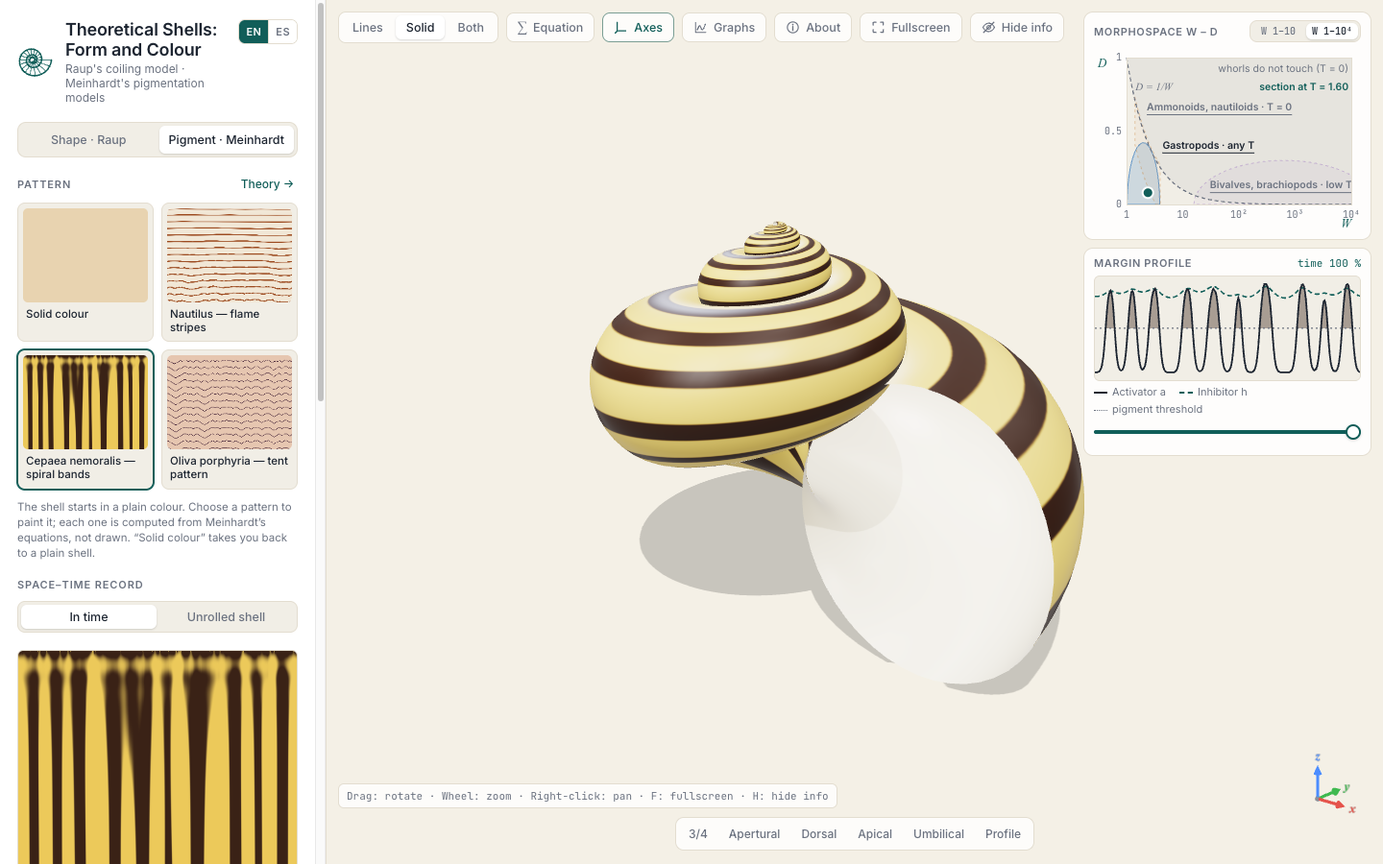
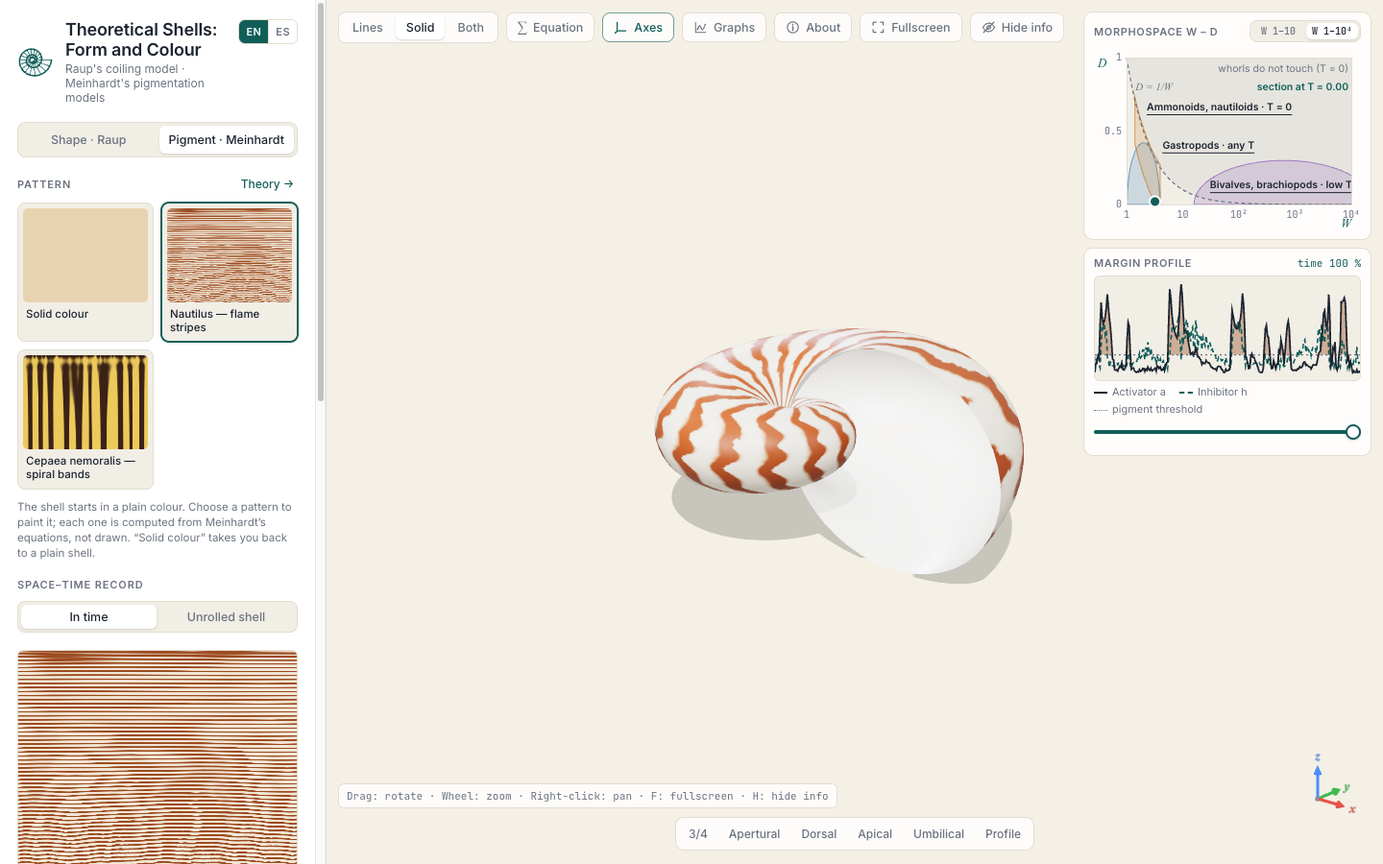
Nautilus con rayas en llama, sin preset de Oliva e imágenes nuevas del README

diff --git a/js/i18n.js b/js/i18n.js
@@ -207,7 +207,7 @@ export const STRINGS = {
     'pig.model': 'Model',
     'pig.model.AI': 'Activator–inhibitor',
     'pig.model.AS': 'Activator–substrate',
-    'pig.recipes': '<strong>How to change the type of pattern</strong><ul><li><b>Bands along the spiral</b>: activator–inhibitor with a far-reaching inhibitor (D<sub>h</sub> ≫ D<sub>a</sub>) that is faster than the activator (r<sub>h</sub> &gt; r<sub>a</sub>).</li><li><b>Stripes parallel to the margin</b>: activator–inhibitor with D<sub>h</sub> ≈ 0 (far left) and a longer-lived inhibitor (r<sub>h</sub> &lt; r<sub>a</sub>).</li><li><b>Oblique lines and triangles</b>: activator–substrate with a slowly recovering substrate (small b<sub>b</sub>); global control g &gt; 0 for triangles.</li></ul>',
+    'pig.recipes': '<strong>How to change the type of pattern</strong><ul><li><b>Bands along the spiral</b>: activator–inhibitor with a far-reaching inhibitor (D<sub>h</sub> ≫ D<sub>a</sub>) that is faster than the activator (r<sub>h</sub> &gt; r<sub>a</sub>).</li><li><b>Stripes parallel to the margin</b>: activator–inhibitor with D<sub>h</sub> ≈ 0 (far left) and a longer-lived inhibitor (r<sub>h</sub> &lt; r<sub>a</sub>).</li><li><b>Oblique lines and V shapes</b>: activator–substrate without saturation (κ = 0) and a slowly recovering substrate (small b<sub>b</sub> and r<sub>b</sub>); a global control g &gt; 0 starts new waves when activity drops.</li></ul>',
     'pig.params': 'Pattern controls',
     'pig.advanced': 'Advanced: model constants',
     'pig.advanced.hint': 'Every constant of the equations. The constants span several orders of magnitude, so their sliders are logarithmic; the leftmost position is 0, which switches that term off. Near some values the pattern jumps from one type to another: these are real thresholds of the model. Changing the model loads constants that work for it.',
@@ -284,7 +284,6 @@ export const STRINGS = {
     patterns: {
       nautilus: 'Nautilus — flame stripes',
       cepaea: 'Cepaea nemoralis — spiral bands',
-      oliva: 'Oliva porphyria — tent pattern',
     },
     presets: {
       'Gasterópodos': 'Gastropods',
@@ -379,6 +378,7 @@ export const STRINGS = {
       <p>Annihilating and branching waves produce zigzags, but not the large triangles of <i>Oliva porphyria</i>, where new lines start at many places at the same time. Meinhardt and Klingler (1987) explained them with an additional substance shared by the whole animal, like a hormone. It measures the total activity of the margin: when many waves annihilate and activity drops, the signal falls, and this makes it easier for new waves to start everywhere. This app uses a simplified version of the mechanism, which acts on the basal activator production:</p>
       ${GLOBAL_TEX}
       <p>\\(c\\) follows the mean activator \\(\\langle a \\rangle\\) with a delay, and \\(g\\) sets the strength of the control. With \\(g = 0\\) there is no global signal.</p>
+      <p>This simplified version keeps waves going by starting new ones when activity drops, and draws oblique lines and V shapes. It does not reproduce the dense network of overlapping triangles of a real <i>Oliva porphyria</i>, which needs the full model of Meinhardt and Klingler; for that reason the app offers no <i>Oliva</i> preset. When you switch to the activator–substrate model in the advanced controls, it loads constants that draw travelling waves.</p>
 
       <h3>Which pattern comes from which mechanism</h3>
       <ul>
@@ -584,7 +584,7 @@ export const STRINGS = {
     'pig.model': 'Modelo',
     'pig.model.AI': 'Activador-inhibidor',
     'pig.model.AS': 'Activador-sustrato',
-    'pig.recipes': '<strong>Cómo cambiar de tipo de patrón</strong><ul><li><b>Bandas a lo largo de la espiral</b>: activador-inhibidor con un inhibidor de largo alcance (D<sub>h</sub> ≫ D<sub>a</sub>) más rápido que el activador (r<sub>h</sub> &gt; r<sub>a</sub>).</li><li><b>Rayas paralelas al borde</b>: activador-inhibidor con D<sub>h</sub> ≈ 0 (a la izquierda del todo) y un inhibidor de vida más larga (r<sub>h</sub> &lt; r<sub>a</sub>).</li><li><b>Líneas oblicuas y triángulos</b>: activador-sustrato con un sustrato que se recupera despacio (b<sub>b</sub> pequeño); control global g &gt; 0 para los triángulos.</li></ul>',
+    'pig.recipes': '<strong>Cómo cambiar de tipo de patrón</strong><ul><li><b>Bandas a lo largo de la espiral</b>: activador-inhibidor con un inhibidor de largo alcance (D<sub>h</sub> ≫ D<sub>a</sub>) más rápido que el activador (r<sub>h</sub> &gt; r<sub>a</sub>).</li><li><b>Rayas paralelas al borde</b>: activador-inhibidor con D<sub>h</sub> ≈ 0 (a la izquierda del todo) y un inhibidor de vida más larga (r<sub>h</sub> &lt; r<sub>a</sub>).</li><li><b>Líneas oblicuas y uves</b>: activador-sustrato sin saturación (κ = 0) y con un sustrato que se recupera despacio (b<sub>b</sub> y r<sub>b</sub> pequeños); un control global g &gt; 0 inicia ondas nuevas cuando la actividad baja.</li></ul>',
     'pig.params': 'Controles del patrón',
     'pig.advanced': 'Avanzado: constantes del modelo',
     'pig.advanced.hint': 'Todas las constantes de las ecuaciones. Abarcan varios órdenes de magnitud, así que sus sliders son logarítmicos; la posición de la izquierda del todo es 0 y anula ese término. Cerca de algunos valores el patrón salta de un tipo a otro: son umbrales reales del modelo. Al cambiar de modelo se cargan constantes que funcionan con él.',
@@ -661,7 +661,6 @@ export const STRINGS = {
     patterns: {
       nautilus: 'Nautilus — rayas en llama',
       cepaea: 'Cepaea nemoralis — bandas espirales',
-      oliva: 'Oliva porphyria — triángulos',
     },
     presets: {
       'Gasterópodos': 'Gasterópodos',
@@ -757,6 +756,7 @@ export const STRINGS = {
       <p>Las ondas que se aniquilan y se ramifican dan zigzags, pero no los grandes triángulos de <i>Oliva porphyria</i>, en los que aparecen líneas nuevas en muchos puntos a la vez. Meinhardt y Klingler (1987) los explicaron con una sustancia adicional compartida por todo el animal, como una hormona. Esa sustancia mide la actividad total del borde: cuando muchas ondas se aniquilan y la actividad cae, la señal baja y facilita que surjan ondas nuevas en todas partes. Esta app usa una versión simplificada del mecanismo, que actúa sobre la producción basal de activador:</p>
       ${GLOBAL_TEX}
       <p>\\(c\\) sigue con retraso al activador medio \\(\\langle a \\rangle\\), y \\(g\\) fija la intensidad del control. Con \\(g = 0\\) no hay señal global.</p>
+      <p>Esta versión simplificada mantiene las ondas iniciando otras nuevas cuando la actividad baja, y dibuja líneas oblicuas y uves. No reproduce la red densa de triángulos superpuestos de una <i>Oliva porphyria</i> real, que necesita el modelo completo de Meinhardt y Klingler; por eso la app no ofrece un preset de <i>Oliva</i>. Al cambiar al modelo activador-sustrato en los controles avanzados se cargan constantes que dibujan ondas viajeras.</p>
 
       <h3>Qué patrón sale de cada mecanismo</h3>
       <ul>

diff --git a/js/presets.js b/js/presets.js
@@ -48,23 +48,34 @@ export const DEFAULT_PRESET = 'caracol';
  */
 export const PATTERN_PRESETS = {
   nautilus: {
-    // Oscillation: the inhibitor outlives the activator → flame stripes parallel to the margin
-    model: 'AI', Da: 0.01, D2: 0, ra: 0.08, r2: 0.02, kappa: 0.2, ba: 0.05, b2: 0,
-    noise: 0.3, globalCtl: 0, T: 3000, insertion: true, amount: 0.62, base: '#f1e7d6', pigment: '#9c4a1f',
+    // Oscillation: the inhibitor outlives the activator, so the whole margin flashes
+    // periodically and draws stripes parallel to the growth lines. Fast rates give
+    // about ten stripes per whorl; strong saturation (κ) widens each stripe and weak
+    // coupling between cells (D_a) makes them wavy, like the flames of Nautilus.
+    model: 'AI', Da: 0.04, D2: 0, ra: 0.24, r2: 0.06, kappa: 2, ba: 0.05, b2: 0,
+    noise: 0.4, globalCtl: 0, T: 3000, insertion: true, amount: 0.8, base: '#f1e7d6', pigment: '#9c4a1f',
   },
   cepaea: {
     // Stable peaks (long-range lateral inhibition) → spiral bands
     model: 'AI', Da: 0.02, D2: 12, ra: 0.01, r2: 0.015, kappa: 0.4, ba: 0.005, b2: 0,
     noise: 0.05, globalCtl: 0, T: 3000, insertion: false, base: '#ecc95a', pigment: '#3a2216',
   },
-  oliva: {
-    // Travelling waves from substrate depletion + global control → zigzags and triangles
-    model: 'AS', Da: 0.004, D2: 0, ra: 0.05, r2: 0, kappa: 0.5, ba: 0.0005, b2: 0.02,
-    noise: 0.3, globalCtl: 0.01, T: 8000, insertion: false, amount: 0.6, base: '#e6c6b0', pigment: '#4b2a3c',
-  },
 };
 
 export const DEFAULT_PATTERN = 'nautilus';
 
-/** Reference preset of each model: its constants are loaded when the model is changed. */
-export const MODEL_REFERENCE = { AI: 'nautilus', AS: 'oliva' };
+/**
+ * Constants loaded when the model is changed in the advanced controls. The
+ * activator–substrate set is an excitable medium (no substrate saturation,
+ * slow recovery) in which the global signal starts new waves: it draws
+ * travelling waves, oblique lines and V shapes. It is not offered as a species
+ * preset: this simplified model does not reproduce the full pattern of a
+ * particular shell such as Oliva porphyria.
+ */
+export const MODEL_DEFAULTS = {
+  AI: PATTERN_PRESETS.nautilus,
+  AS: {
+    model: 'AS', Da: 0.01, D2: 0, ra: 0.05, r2: 0.002, kappa: 0, ba: 0, b2: 0.02,
+    noise: 0.4, globalCtl: 0.02, T: 8000, insertion: false, amount: 0.6, base: '#efe3cf', pigment: '#5a2d1e',
+  },
+};

diff --git a/js/main.js b/js/main.js
@@ -9,7 +9,7 @@ import { LineGeometry } from 'three/addons/lines/LineGeometry.js';
 import { buildShell } from './raup.js';
 import { buildPrintMesh, toSTL, to3MF } from './export3d.js';
 import { MORPHO_REGIONS } from './morphospace.js';
-import { PRESETS, DEFAULT_PRESET, PATTERN_PRESETS, DEFAULT_PATTERN, MODEL_REFERENCE } from './presets.js';
+import { PRESETS, DEFAULT_PRESET, PATTERN_PRESETS, DEFAULT_PATTERN, MODEL_DEFAULTS } from './presets.js';
 import { simulatePattern, PROFILE_WIDTH } from './meinhardt.js';
 import {
   setLang, getLang, t, tParam, tPreset, tPattern, applyStatic,
@@ -2388,7 +2388,7 @@ document.querySelectorAll('#pigMode [data-pmode]').forEach((b) => b.addEventList
 // other model make no sense here (e.g. without substrate production there is no pattern)
 $('patternModel').addEventListener('change', (e) => {
   const { base, pigment, size, amount } = pattern;
-  Object.assign(pattern, pickPattern(PATTERN_PRESETS[MODEL_REFERENCE[e.target.value]]), { base, pigment, size, amount });
+  Object.assign(pattern, pickPattern(MODEL_DEFAULTS[e.target.value]), { base, pigment, size, amount });
   syncPatternControls();
   markPatternCustom();
   schedulePattern();

diff --git a/js/meinhardt.js b/js/meinhardt.js
@@ -21,8 +21,9 @@
  * stripes are intercalated as the shell grows. Global control (activator–
  * substrate only): a signal c, shared by the whole margin, follows the mean
  * activity; when waves annihilate and activity drops, c falls and favours the
- * triggering of new waves, the branching mechanism of the triangles of
- * Oliva porphyria.
+ * triggering of new waves. It is a simplified version of the mechanism that
+ * Meinhardt and Klingler (1987) proposed for the triangles of Oliva porphyria;
+ * in this form it gives oblique lines and V shapes, not that full pattern.
  */
 
 export const MODELS = ['AI', 'AS'];

diff --git a/docs/introduccion-divulgativa.md b/docs/introduccion-divulgativa.md
@@ -69,7 +69,7 @@ Un molusco solo añade pigmento donde la concha crece, en el borde de la apertur
 Ese proceso es una **reacción-difusión**, la idea que Alan Turing propuso en 1952 y que Gierer y Meinhardt desarrollaron en 1972: una sustancia **activadora** que se estimula a sí misma y un **antagonista** que difunde más deprisa y la frena. De la competición entre ambos surgen patrones regulares sin que nadie los dibuje. La app ofrece los dos modelos de Meinhardt:
 
 - **Activador-inhibidor.** Si el inhibidor actúa rápido y llega lejos, los picos de activador son estables y dibujan **bandas a lo largo de la espiral** (como en *Cepaea nemoralis*). Si el inhibidor dura más que el activador, el sistema **oscila** y dibuja **rayas paralelas al borde** (como las llamas del *Nautilus*).
-- **Activador-sustrato.** La activación consume un sustrato que tarda en recuperarse, así que cada célula queda un tiempo **refractaria**. La activación avanza entonces como **ondas** que dibujan líneas oblicuas; cuando dos ondas chocan se aniquilan y forman una V. Con un **control global**, una señal común a todo el borde que dispara ondas nuevas cuando la actividad cae, aparecen los **triángulos** de *Oliva porphyria* (Meinhardt y Klingler, 1987).
+- **Activador-sustrato.** La activación consume un sustrato que tarda en recuperarse, así que cada célula queda un tiempo **refractaria**. La activación avanza entonces como **ondas** que dibujan líneas oblicuas; cuando dos ondas chocan se aniquilan y forman una V. Meinhardt y Klingler (1987) explicaron los **triángulos** de *Oliva porphyria* con un **control global**, una señal común a todo el borde que dispara ondas nuevas cuando la actividad cae. La app incluye una versión simplificada de ese control, que da líneas oblicuas y uves, pero no el patrón completo de *Oliva*.
 
 El pigmento se deposita en la capa externa de la concha, así que la app solo pinta el exterior: el interior de la apertura se ve claro, con un ligero brillo nacarado. Como en las simulaciones de Meinhardt, se deposita pigmento donde el activador supera un umbral, lo que da bordes nítidos; la *cantidad de pigmento* sube o baja ese umbral.
 
@@ -81,7 +81,7 @@ Cada tipo de patrón vive en su propia región del espacio de parámetros, y ent
 
 - **Bandas a lo largo de la espiral**: activador-inhibidor con un inhibidor de largo alcance (D<sub>h</sub> ≫ D<sub>a</sub>) y más rápido que el activador (r<sub>h</sub> > r<sub>a</sub>).
 - **Rayas paralelas al borde**: activador-inhibidor con D<sub>h</sub> ≈ 0 y un inhibidor de vida más larga (r<sub>h</sub> < r<sub>a</sub>).
-- **Líneas oblicuas y triángulos**: activador-sustrato con un sustrato que se recupera despacio; control global para los triángulos.
+- **Líneas oblicuas y uves**: activador-sustrato sin saturación y con un sustrato que se recupera despacio; un control global inicia ondas nuevas cuando la actividad baja.
 
 Al cambiar de modelo se cargan constantes que funcionan con él: las de un modelo no sirven para el otro (por ejemplo, sin producción de sustrato no hay patrón). Si una combinación de valores no forma patrón, la app lo indica en lugar de mostrar una concha en blanco. Un preset fija también la semilla, la inserción de células, el tiempo, la irregularidad, el tamaño, la cantidad de pigmento y los colores; con exactamente los mismos valores se obtiene exactamente el mismo patrón.
 
@@ -96,7 +96,7 @@ Unir la geometría de Raup con la pigmentación de Meinhardt no es una ocurrenci
 5. **Usa las vistas estándar** de la malacología: 3/4, apertural (de frente a la apertura), dorsal, apical (desde el ápice), umbilical (desde la base) y perfil. Con el ratón puedes rotar (arrastrar), hacer zoom (rueda) y desplazar (clic derecho).
 6. **Pulsa *Animate growth*** para ver crecer la concha desde el ápice hasta la apertura.
 7. **Abre *Equation*** para ver la fórmula general y la misma fórmula con los valores actuales, y ***About*** para la explicación detallada de los dos modelos.
-8. **Píntala** en la pestaña **Pigment · Meinhardt**: al entrar, las líneas desaparecen y la concha se ve sólida, en un color liso. Tú eliges el patrón en la galería, que muestra cada uno (Nautilus, Cepaea, Oliva) con su miniatura; la opción **Solid colour** vuelve a la concha lisa. En la vista **Simple**, los controles cambian el patrón de forma gradual: **tamaño del patrón**, **tiempo de crecimiento**, **irregularidad**, **cantidad de pigmento** y la **semilla** (otra variación del mismo patrón). La vista **Advanced** muestra además el modelo y todas sus constantes, así que desde ahí se controla todo, y el **perfil del borde**: el activador y el inhibidor (o el sustrato) a lo largo del borde en el instante que elijas pinchando en el registro espacio-tiempo, con el umbral de pigmentación. El registro espacio-tiempo se puede ver **en el tiempo** (el diagrama de Meinhardt, con la misma altura para cada vuelta) o como **concha desenrollada** (con las proporciones reales: un abanico que se abre desde el ápice). Las ecuaciones de Meinhardt, con los valores actuales, están en *Equation*.
+8. **Píntala** en la pestaña **Pigment · Meinhardt**: al entrar, las líneas desaparecen y la concha se ve sólida, en un color liso. Tú eliges el patrón en la galería, que muestra cada uno (Nautilus y Cepaea) con su miniatura; la opción **Solid colour** vuelve a la concha lisa. En la vista **Simple**, los controles cambian el patrón de forma gradual: **tamaño del patrón**, **tiempo de crecimiento**, **irregularidad**, **cantidad de pigmento** y la **semilla** (otra variación del mismo patrón). La vista **Advanced** muestra además el modelo y todas sus constantes, así que desde ahí se controla todo, y el **perfil del borde**: el activador y el inhibidor (o el sustrato) a lo largo del borde en el instante que elijas pinchando en el registro espacio-tiempo, con el umbral de pigmentación. El registro espacio-tiempo se puede ver **en el tiempo** (el diagrama de Meinhardt, con la misma altura para cada vuelta) o como **concha desenrollada** (con las proporciones reales: un abanico que se abre desde el ápice). Las ecuaciones de Meinhardt, con los valores actuales, están en *Equation*.
 9. **Muestra gráficos sobre la vista 3D** desde el menú **Graphs** (desactivados por defecto): la posición de la concha en el morfoespacio W – D, en la que también puedes pinchar, y el perfil del activador y el inhibidor (o el sustrato) a lo largo del borde, con un slider para elegir el instante del crecimiento.
 10. **Para ver solo la concha**, usa *Fullscreen* y *Hide info*.
 11. **Exporta** tu concha desde **Export…**:
@@ -142,7 +142,6 @@ Aproximaciones a los tipos de patrón de cada especie, no ajustes a ejemplares r
 |---|---|---|---|
 | *Nautilus*: rayas en llama | Activador-inhibidor | Oscilación (inhibidor de vida larga) | Sí |
 | *Cepaea nemoralis*: bandas espirales | Activador-inhibidor | Picos estables (inhibición de largo alcance) | No |
-| *Oliva porphyria*: triángulos | Activador-sustrato | Ondas viajeras + control global | No |
 
 ## Para desarrolladores
 

diff --git a/ARCHITECTURE.md b/ARCHITECTURE.md
@@ -115,7 +115,7 @@ In bivalves (W from 10² to 10⁴) almost the whole valve lies in the last fract
 
 `simulatePattern(params, geometry)` is a pure function that returns `{ values, second, state }`: a `rows × width` matrix of activator between 0 and 1 (row 0 is the apex), the second substance (`rows × PROFILE_WIDTH`, relative to its maximum) and a diagnosis `state` (`'pattern'`, `'uniform'` or `'extinct'`).
 
-- **Models.** Meinhardt's activator–inhibitor and activator–substrate models, with saturation κ. The second one supports global control: a signal `c` that follows the mean activity of the margin and raises the basal production when activity drops (`b_a + g / (1 + 40c)`), a simplified version of the mechanism of Meinhardt and Klingler (1987) for the triangles of *Oliva*.
+- **Models.** Meinhardt's activator–inhibitor and activator–substrate models, with saturation κ. The second one supports global control: a signal `c` that follows the mean activity of the margin and raises the basal production when activity drops (`b_a + g / (1 + 40c)`), a simplified version of the mechanism of Meinhardt and Klingler (1987) for the triangles of *Oliva*. In this form it gives oblique lines and V shapes but not the full *Oliva* pattern, so there is no *Oliva* preset.
 - **Periodic margin** of up to 256 cells, with a discrete Laplacian (Δx = 1).
 - **Integration.** Explicit Euler with time step `dt = min(0.5, 0.4/D_max, 0.4/r_max)`, stable for diffusion. Values are clamped so that extreme parameters cannot overflow.
 - **Time.** Every row gets the same time (`T / rows`): a logarithmic spiral traversed at a constant angular rate is growth at a constant relative rate.
@@ -128,7 +128,7 @@ In `main.js` the result is coloured with a **pigmentation threshold**, as in Mei
 - **Two views of the record.** *In time* draws the record as computed: every whorl gets the same height and every row is normalised to the full width. *Unrolled shell* (`unrolledImage`) draws each row with a width ∝ g = W^(θ/2π) at a height ∝ g − g0, because the distance travelled from the apex is also ∝ g. The result is a straight-sided fan with height/width ratio v·(1 − g0)/(k·P), where k = ln W/2π, v is the advance of the aperture centre per radian and P its perimeter. It is approximate: the outer side of a whorl grows faster than the inner side. `rowToFrac` and `fracToRow` convert between rows and heights for the profile marker.
 - **Margin profile.** In the advanced view, clicking or dragging on the space–time record chooses a moment; a canvas plots there the activator, the second substance and the pigment threshold, and shades the pigmented area.
 - **Tab flow.** Entering the pigment tab switches to solid mode (no lines), but the shell keeps its plain colour: the user picks the pattern. A gallery shows the solid-colour option and each preset with a real thumbnail, computed once in a separate worker.
-- **Simple and advanced controls.** The simple controls are real quantities of the model, not hidden multipliers: *pattern size* sets the number of margin cells (`nMax = 256 / size`), *growth time* is `T`, *irregularity* is `noise`, and *pigment amount* only shifts the colouring threshold (without simulating again). The advanced view adds the model, all its constants and cell insertion. Constants use logarithmic sliders (`log: true` in `createParam`); with `zero: true` the leftmost position is exactly 0. Dragging a logarithmic slider rounds the value to what is displayed (two significant figures), so the visible value is always the real one and a pattern can be reproduced by typing its numbers. Changing the model loads the constants of its reference preset (`MODEL_REFERENCE` in `presets.js`), keeping colours, size and amount.
+- **Simple and advanced controls.** The simple controls are real quantities of the model, not hidden multipliers: *pattern size* sets the number of margin cells (`nMax = 256 / size`), *growth time* is `T`, *irregularity* is `noise`, and *pigment amount* only shifts the colouring threshold (without simulating again). The advanced view adds the model, all its constants and cell insertion. Constants use logarithmic sliders (`log: true` in `createParam`); with `zero: true` the leftmost position is exactly 0. Dragging a logarithmic slider rounds the value to what is displayed (two significant figures), so the visible value is always the real one and a pattern can be reproduced by typing its numbers. Changing the model loads its default constants (`MODEL_DEFAULTS` in `presets.js`), keeping colours, size and amount: the *Nautilus* preset for the activator–inhibitor model, and an excitable set without saturation that draws travelling waves for the activator–substrate model.
 - **Stale computations.** If a new computation arrives while the worker is busy, the worker is terminated and a new one is started: when dragging a slider only the last value matters.
 - **Outside and inside.** The outside (`FrontSide`) carries the colour or the pattern; the inside (`BackSide`) uses a light `MeshPhysicalMaterial` with some iridescence, like nacre.
 - **Equations.** The *Equation* panel has two views, Raup and Meinhardt. The Meinhardt view shows the equations of the active model and the same equations with the current values, omitting zero terms.
@@ -190,7 +190,7 @@ npm test        # node --test, Node.js ≥ 20, no dependencies
 | File | What it checks |
 |---|---|
 | `tests/raup.test.mjs` | Grid sizes and index ranges; normalisation to the requested size; mirror valve; dextral/sinistral symmetry; arc-length u coordinate; **whorls touch exactly at D = 1/W for any S** (measured on the mesh); growth animation |
-| `tests/meinhardt.test.mjs` | Seeded generator; every pattern preset forms a pattern with values in [0, 1]; same seed, same pattern; `extinct` and `uniform` diagnoses; bands are stable in time while flames oscillate; reference presets |
+| `tests/meinhardt.test.mjs` | Seeded generator; every pattern preset forms a pattern with values in [0, 1]; same seed, same pattern; `extinct` and `uniform` diagnoses; bands are stable in time while flames oscillate; the default constants of each model form a pattern, and those of the activator–substrate model draw travelling waves |
 | `tests/morphospace.test.mjs` | Contact curve; each shape preset lies in the region of its group; freely coiled forms lie outside; regions point to existing presets and state their range of T |
 | `tests/export3d.test.mjs` | Every preset and extreme parameters (W 1.01 and 10⁴, D 0.9, T 10, S 0.5 and 2, N 0.25 and 20, mirror valve; walls 0.4 and 6 mm; sizes 30 and 250 mm) give closed, consistently oriented, outward-facing solids of the exact size with the base at z = 0; STL structure; 3MF package (ZIP entries, units, vertex and triangle counts) |
 | `tests/i18n.test.mjs` | English and Spanish have the same keys; every key and element id used in the HTML and `main.js` exists; no control characters in the strings |

diff --git a/README.md b/README.md
@@ -15,7 +15,7 @@ An interactive 3D explorer of the **theoretical morphology of coiled shells**. T
 
 **▶ Open the app: https://albertogonzalezcasarrubios.github.io/coiling-shells/**
 
-![The app showing a Turritella shell drawn with lines, with Raup's parameters in the sidebar](docs/images/turritella-lines.png)
+![The app as it opens: a garden snail shell drawn with lines, with Raup's parameters in the sidebar](docs/images/app.png)
 
 ## What it is for
 
@@ -58,7 +58,7 @@ The plane is a **section of Raup's W–D–T cube at the current T**. The groups
 
 A mollusc only adds pigment at the growing margin, so a shell pattern is a **time record of a one-dimensional process**: space runs along the margin and time along the direction of growth. The app simulates the margin with Meinhardt's reaction–diffusion models and wraps the resulting space–time record onto Raup's surface, as Fowler, Meinhardt and Prusinkiewicz (1992) did.
 
-![A banded snail coloured with the activator–inhibitor model, with the space–time record in the sidebar and, over the 3D view, the morphospace and the activator and inhibitor profile along the margin](docs/images/pigmentation.png)
+![A Nautilus shell with the flame stripes of the activator–inhibitor model, with the space–time record in the sidebar and, over the 3D view, the morphospace and the activator and inhibitor profile along the margin](docs/images/pigmentation.png)
 
 - **Activator–inhibitor model.** A self-enhancing activator and a fast, far-reaching inhibitor give stable peaks, which draw bands along the spiral (*Cepaea nemoralis*). If the inhibitor outlives the activator, the margin oscillates and draws stripes parallel to the growth lines (the flames of *Nautilus*).
 
@@ -67,7 +67,9 @@ A mollusc only adds pigment at the growing margin, so a shell pattern is a **tim
   ∂h/∂t = s·a² − r_h·h + D_h·∂²h/∂x² + b_h
   ```
 
-- **Activator–substrate model.** The activator consumes a substrate that recovers slowly, so activation travels as waves that draw oblique lines and annihilate when they meet. With global control, a signal shared by the whole margin, they form the triangles of *Oliva porphyria*.
+- **Activator–substrate model.** The activator consumes a substrate that recovers slowly, so activation travels as waves that draw oblique lines and annihilate when they meet. Meinhardt and Klingler (1987) explained the triangles of *Oliva porphyria* by adding a signal shared by the whole margin that starts new waves when activity drops. The app includes a simplified version of that global control, which gives oblique lines and V shapes but not the full *Oliva* pattern, so it is available in the advanced controls and not as a species preset.
+
+Two presets reproduce real pattern types: the flame stripes of *Nautilus* and the spiral bands of *Cepaea nemoralis*.
 
 **Simple controls** set real quantities of the model: the number of cells along the margin, the growth time, the irregularity between cells and the pigment threshold. A seed chooses the random differences between cells. **Advanced controls** expose every constant of the equations, the choice of model and the insertion of new cells as the margin grows. The space–time record can be seen in time, which is Meinhardt's diagram, or unrolled with the true proportions of the shell. A **margin profile** plots the activator and the inhibitor or substrate at any moment of growth. If a set of values forms no pattern, the app says so instead of showing an empty shell.
 
@@ -94,9 +96,9 @@ The page address also stores the current shell and pattern, so copying the link 
   <img src="docs/images/report-page-3.png" width="32%" alt="Report page 3: equations of both models in general form and with the current values" />
 </p>
 
-**Plate of standard views** (garden snail, lines only):
+**Plate of standard views** (*Turritella*, transparent lines and coiling axis):
 
-![Plate of the six standard views of a garden snail shell, drawn with lines](docs/images/standard-views.png)
+![Plate of the six standard views of a Turritella shell, drawn with transparent lines and the coiling axis](docs/images/standard-views.png)
 
 ## Running locally
 

diff --git a/CHANGELOG.md b/CHANGELOG.md
@@ -2,6 +2,15 @@
 
 All notable changes to this project are documented in this file. The format is based on [Keep a Changelog](https://keepachangelog.com/en/1.1.0/), and the project uses [semantic versioning](https://semver.org/).
 
+## [Unreleased]
+
+### Changed
+- *Nautilus* pattern preset: faster reactions, stronger saturation and weaker coupling between cells give about ten broad, wavy flame stripes per whorl instead of three thin lines.
+- Changing to the activator–substrate model now loads an excitable set of constants that draws travelling waves (oblique lines and V shapes).
+
+### Removed
+- *Oliva porphyria* pattern preset. The simplified global control of the app gives oblique lines and V shapes but not the dense network of triangles of a real *Oliva*, so the preset did not look like the species. The model remains available in the advanced controls, and the explanations now say what it can and cannot reproduce.
+
 ## [1.0.0] - 2026-11-06
 
 First release in its own repository. The app was previously published as `shells-morphology/` in [aplicaciones-varias](https://github.com/AlbertoGonzalezCasarrubios/aplicaciones-varias); that address now redirects here.
